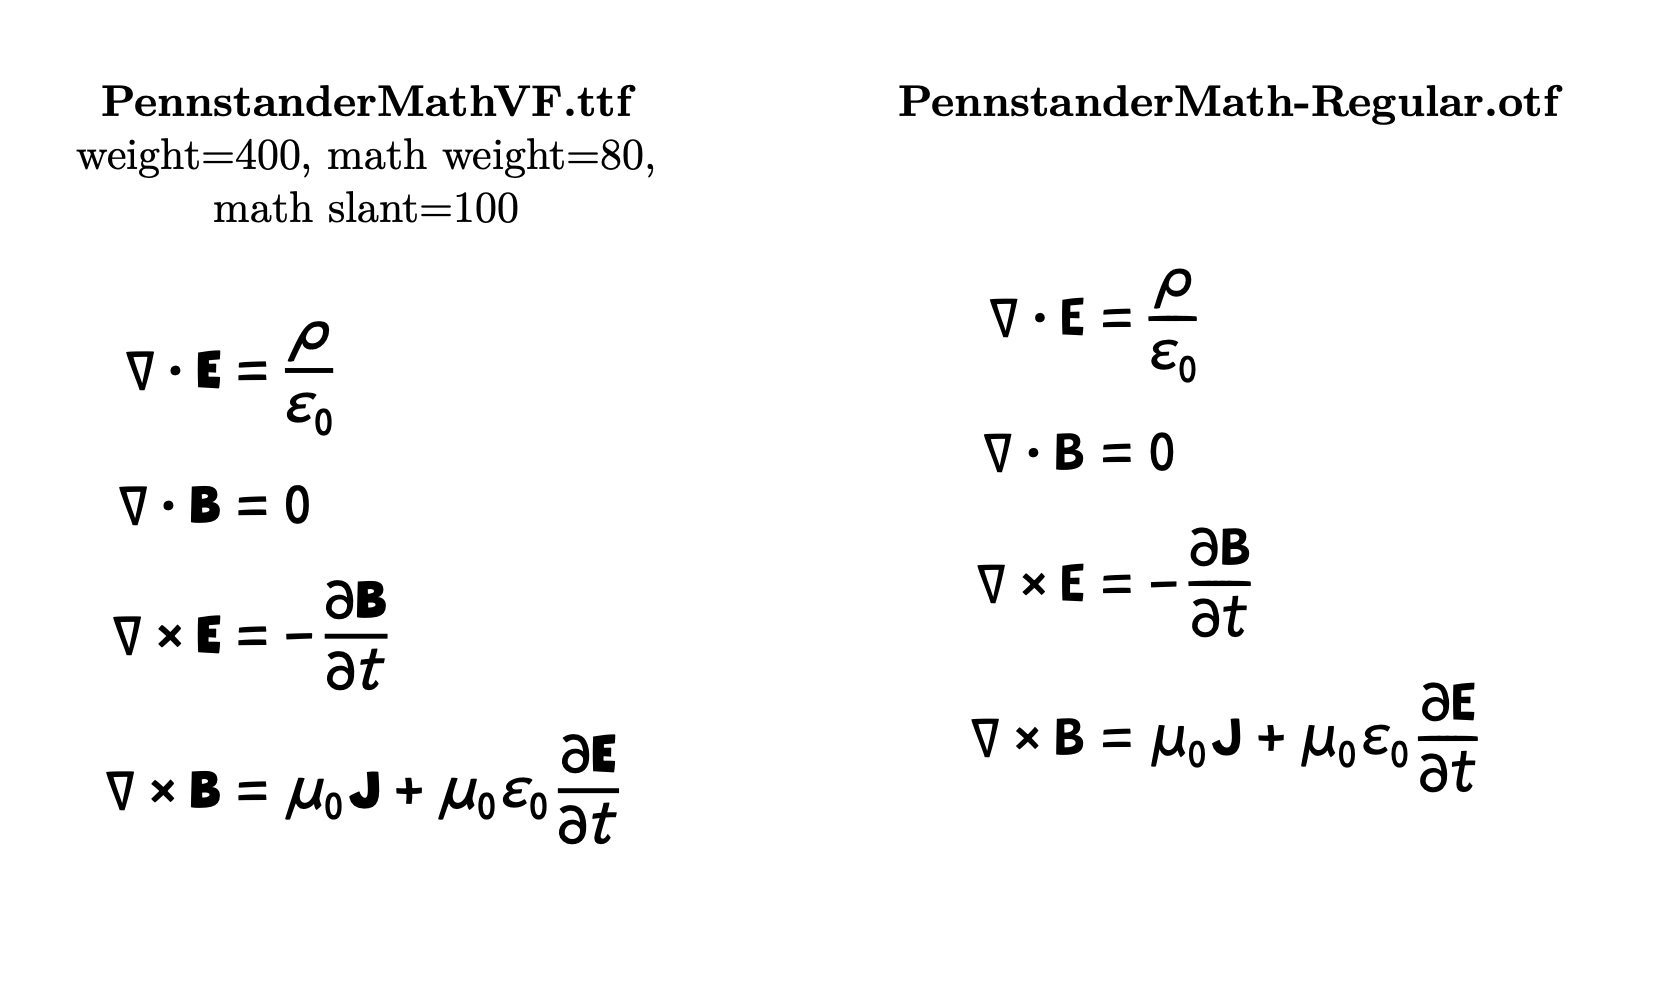
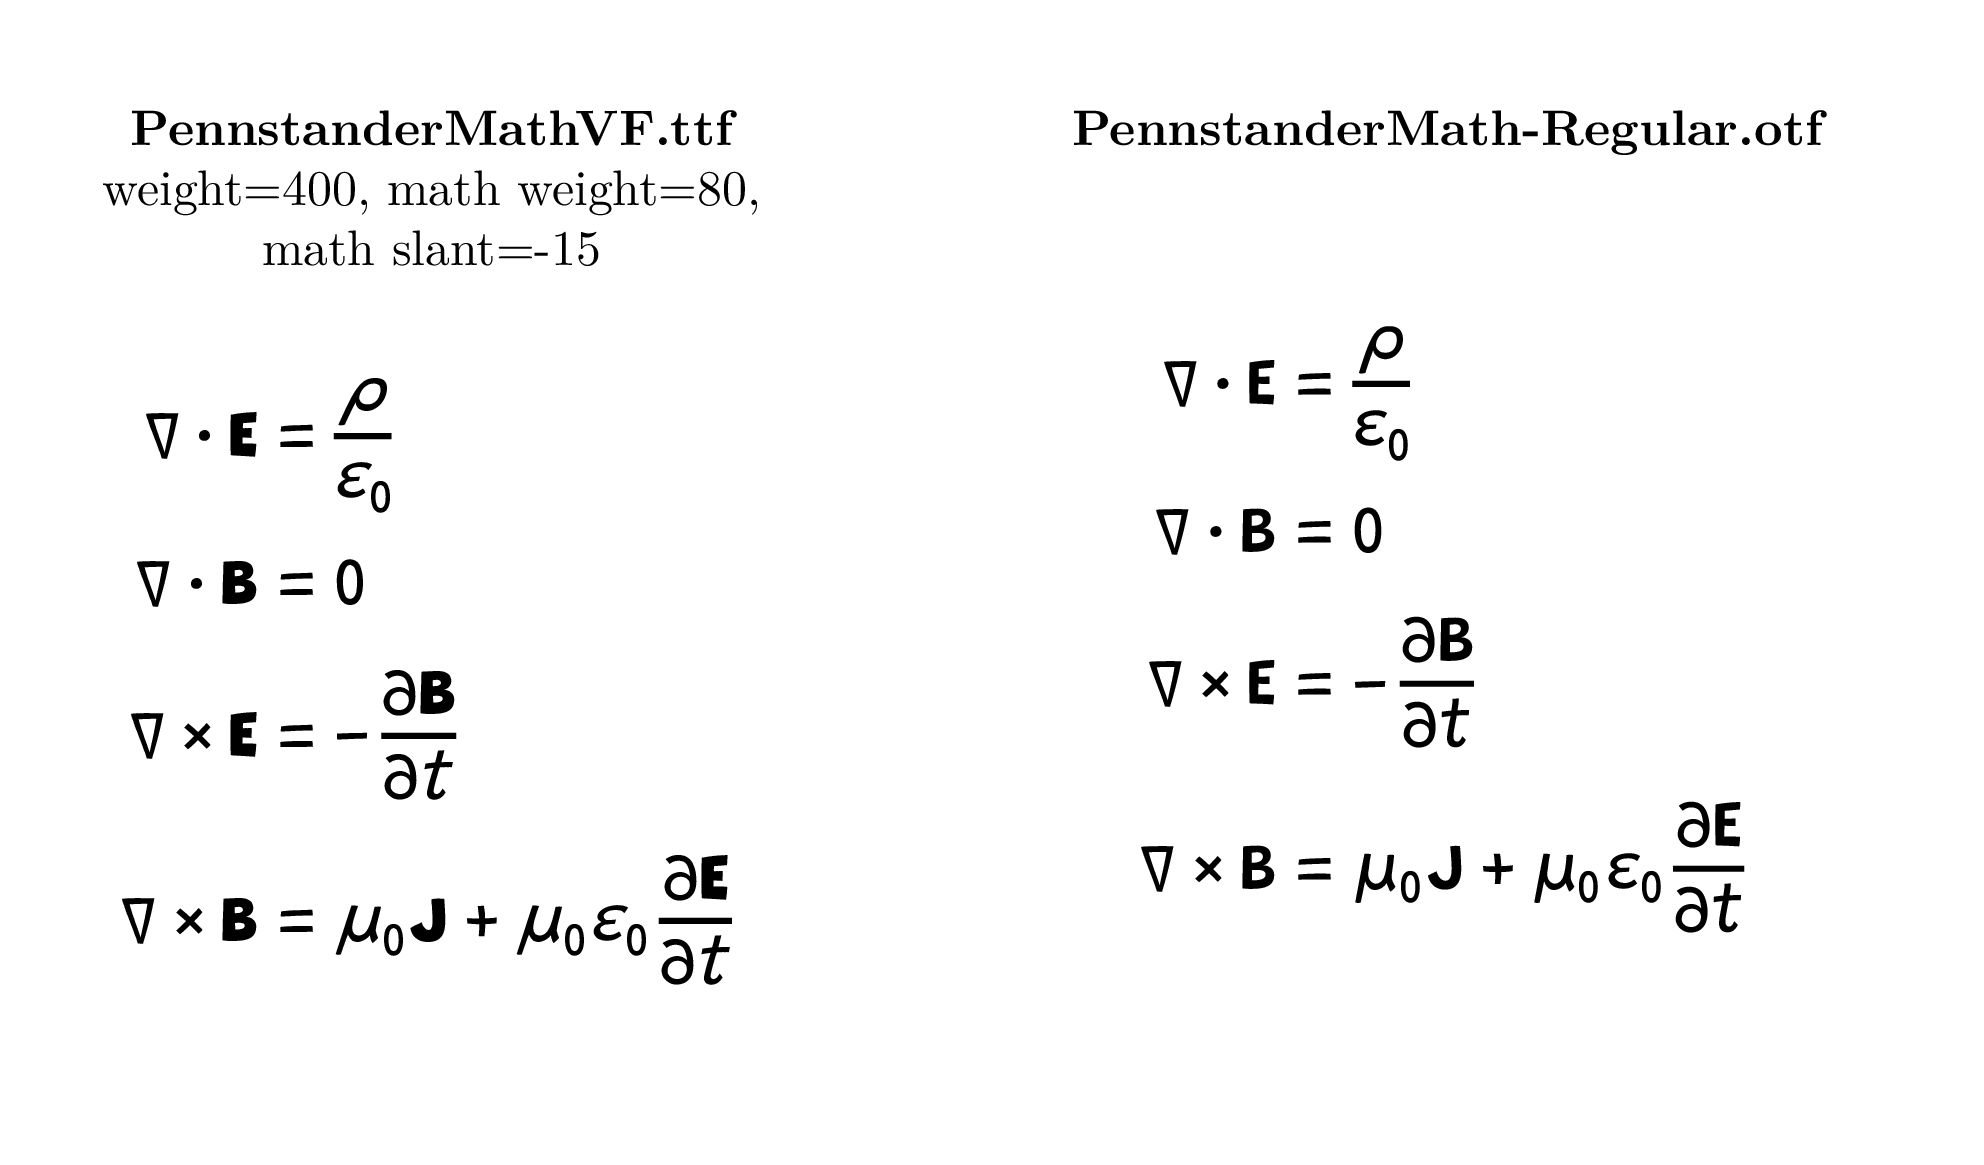
updating doc

diff --git a/samples/pennstander-variable.tex b/samples/pennstander-variable.tex
@@ -1,7 +1,7 @@
 % !TEX root = pennstander-variable.tex
 \usetypescriptfile[type-imp-pennstander]
 \definefontfeature[pennstander-math-vf]
-  [axis={weight=400,math weight=80,math slant=100}]
+  [axis={weight=400,math weight=80,math slant=-15}]
 % Adjust weight from 100 to 900; math weight and math slant from 0 to 100.
 \starttypescript[math][pennstander-math-vf]
   \definefontsynonym[MathRoman][file:PennstanderMathVF.ttf]
@@ -45,7 +45,7 @@
     \startalignment[middle]
       {\bf PennstanderMathVF.ttf}\par
       weight=400, math weight=80,\par
-      math slant=100\par
+      math slant=-15\par
     \stopalignment
     \blank[8mm]
     \switchtobodyfont[pennstander-vf,16pt]
